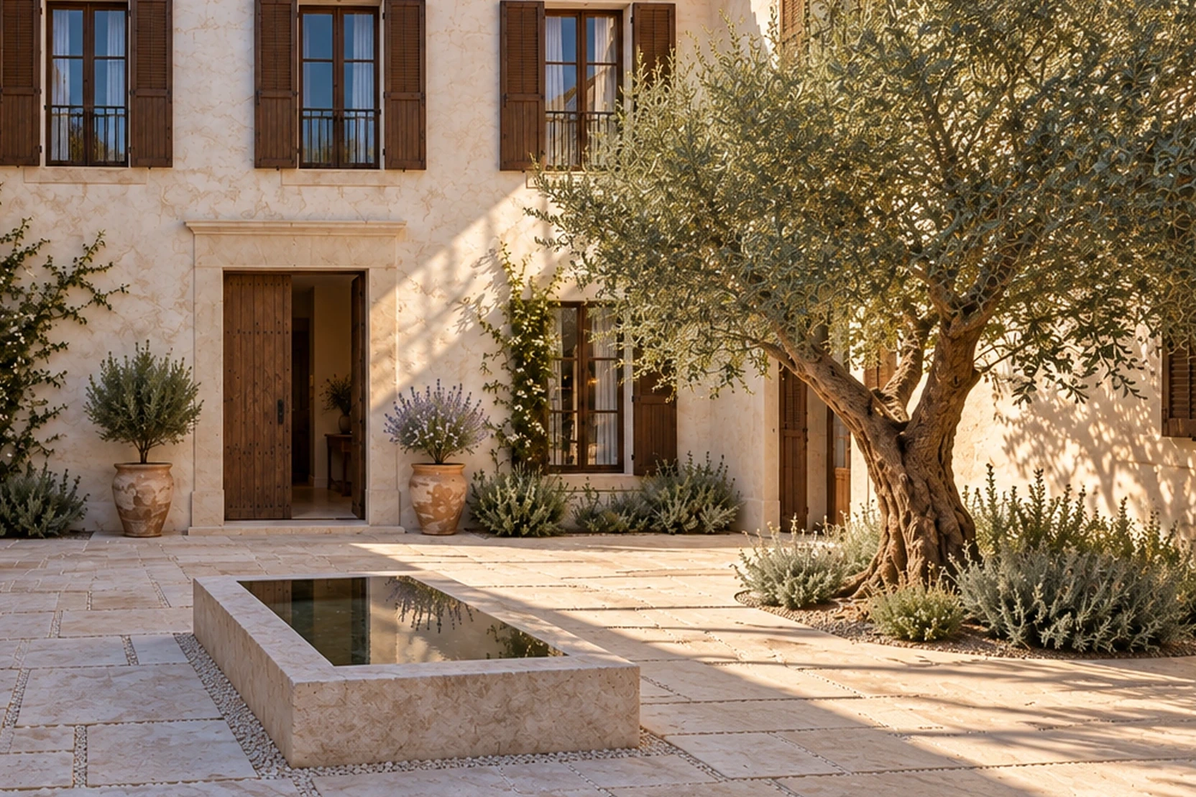
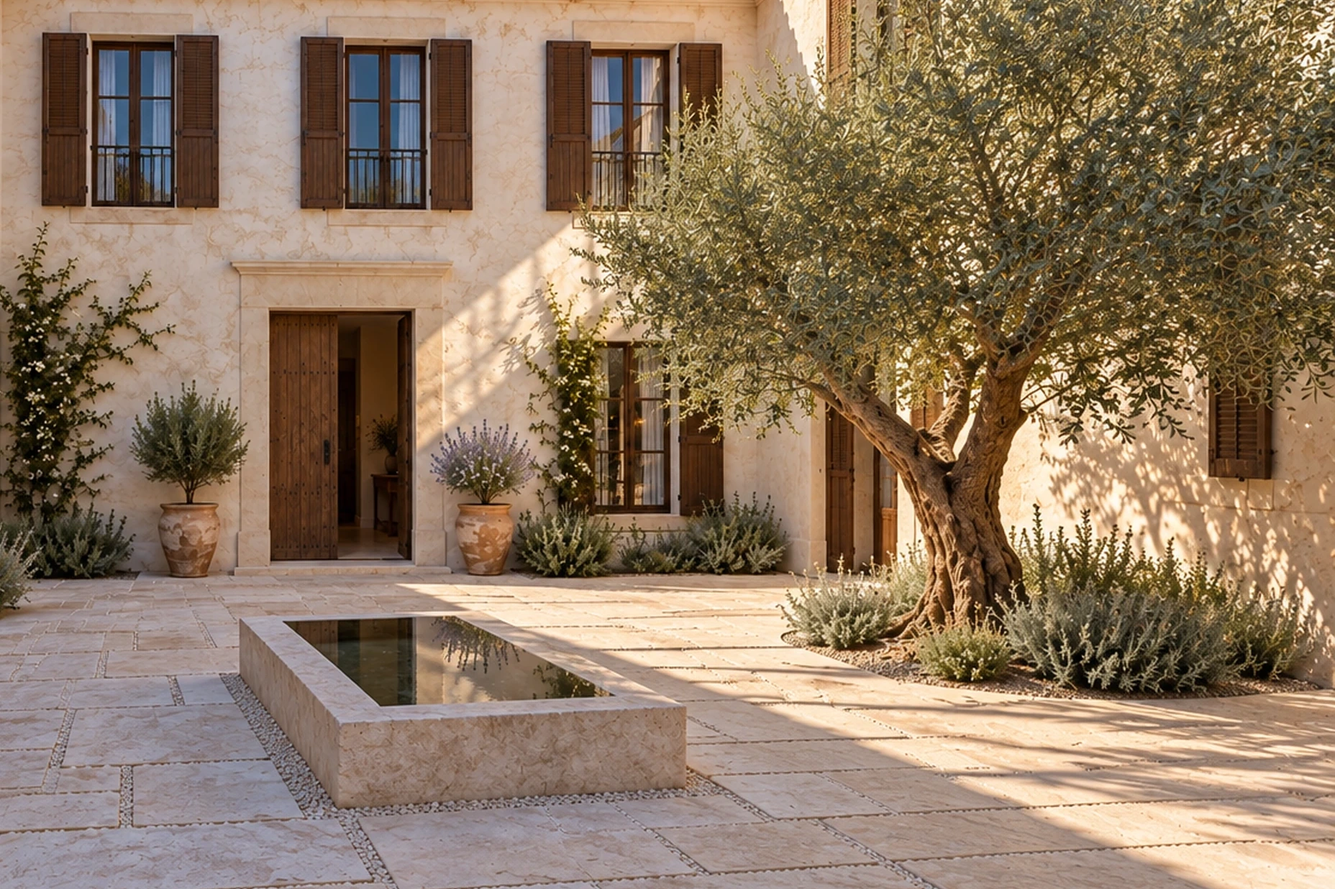
feat(media): P03 escritorio aprobada y nuevo recorte movil propuesto tras revision de tres jueces
- P03 escritorio aprobada por la persona: el master pasa a creative/approved/.
- El primer recorte movil no gusto. Se probaron cinco candidatos y tres revisores independientes los puntuaron; el recorte B (con aire, sin tejas cortadas) es el borrador actual y el C (cerrado) la alternativa.
- Coordenadas de las opciones en el JSON de la solicitud y en creative/provenance.json; hoja de opciones en docs/entregables/capturas.

Claude-Session: https://claude.ai/code/session_01A6bUy76h5nQHhoFu4gJXkq

diff --git a/creative/requests/p03-patio-movil.md b/creative/requests/p03-patio-movil.md
@@ -64,3 +64,12 @@ La persona subió un **vertical 9:16 (1440 × 2560)**, pero el hueco de P03 en e
 **Pruebas:** panel a tamaño real del hueco (`p03-comparacion-hueco-movil.jpg`: A entera, B recorte, C banda de la vertical) y la maqueta a 390 × 844 con cada opción (`p03-en-maqueta-movil-390x844.jpg`: fila superior = foto entera, fila inferior = recorte).
 
 **Pendiente de la persona:** aprobar el recorte, o pedir otra toma 3:2 con encuadre cerrado (esta ficha sigue valiendo).
+
+### Actualización (2026-10-09): el primer recorte no gustó
+
+A la persona no le gustó cómo se veía el primer recorte en el teléfono (cortaba las ventanas de arriba y el olivo ocupaba media escena). Se generaron cinco recortes 3:2 más de la foto de escritorio y tres revisores independientes los puntuaron de 1 a 5 por composición, impacto a tamaño real y coherencia con el hotel: **B** (12 puntos sobre 15), **C** (11), foto entera (8), el primer recorte (8), y otros dos (7 y 6).
+
+- **B, propuesto** (esquina x 704, y 302; 1856 × 1237 px): las tres ventanas altas, la puerta, las macetas, el olivo y el estanque, completos y con margen. Se afinó respecto al ganador de la ronda para no cortar las tejas por arriba. Es el borrador actual: `creative/generated-drafts/p03-patio-movil.webp`.
+- **C, cerrado** (esquina x 883, y 640; 1248 × 832 px): puerta, macetas, estanque y tronco muy grandes; se lee mejor a 328 px, pero pierde el tejado y el cielo y parece la entrada de una villa.
+
+Pendiente de la persona: elegir B o C, o pedir otra toma. Página de decisión con los dos a tamaño real: `docs/entregables/capturas/p03-recortes-opciones.jpg`.

diff --git a/creative/requests/INDEX.md b/creative/requests/INDEX.md
@@ -12,7 +12,7 @@ Se pide **una pieza por turno**, con su ficha en `creative/requests/<nombre>.md`
 |---|---|---|---|---|---|
 | 1 | P01 escritorio | Foto | Fachada al amanecer, héroe de la portada (LCP) | 16:10 | **Aprobada** el 2026-10-09 (`p01-hero-escritorio.md`) |
 | 2 | P01 móvil | Foto | La misma fachada recompuesta en vertical para el teléfono (contenedor real 390 × 772) | **9:16** (1440 × 2560) | **Aprobada** el 2026-10-09, tal cual (941 x 1672; `p01-hero-movil.md`) |
-| 3 | P03 escritorio y móvil | Foto (2 versiones) | Patio interior a media mañana | 3:2 las dos (la móvil, con encuadre más cerrado) | **Recibidas**: escritorio, y móvil derivada por recorte; pendientes de tu aprobación (`p03-patio-escritorio.md` y `p03-patio-movil.md`) |
+| 3 | P03 escritorio y móvil | Foto (2 versiones) | Patio interior a media mañana | 3:2 las dos (la móvil, con encuadre más cerrado) | Escritorio **aprobada** el 2026-10-09; móvil derivada por recorte, pendiente de que elijas entre B y C (`p03-patio-escritorio.md` y `p03-patio-movil.md`) |
 | 4 | P04 escritorio y móvil | Foto (2 versiones) | Habitación Alba, vista general | 4:5 las dos (la móvil, con encuadre más cerrado) | **Solicitada** (`p04-alba-escritorio.md` y `p04-alba-movil.md`) |
 | 5 | P05 | Foto | Alba, la luz sobre la pared | 3:2 | Pendiente |
 | 6 | P06 | Foto | Alba, baño | 3:2 | Pendiente |
